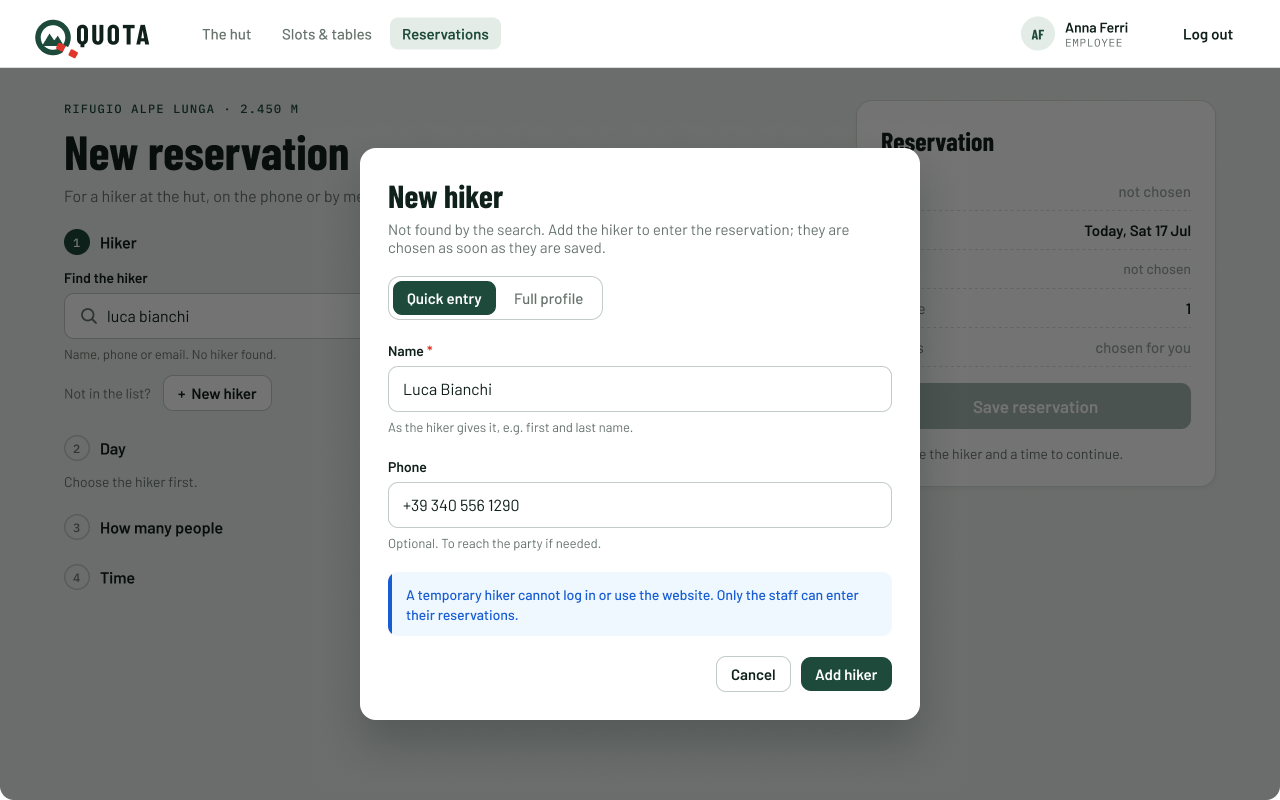
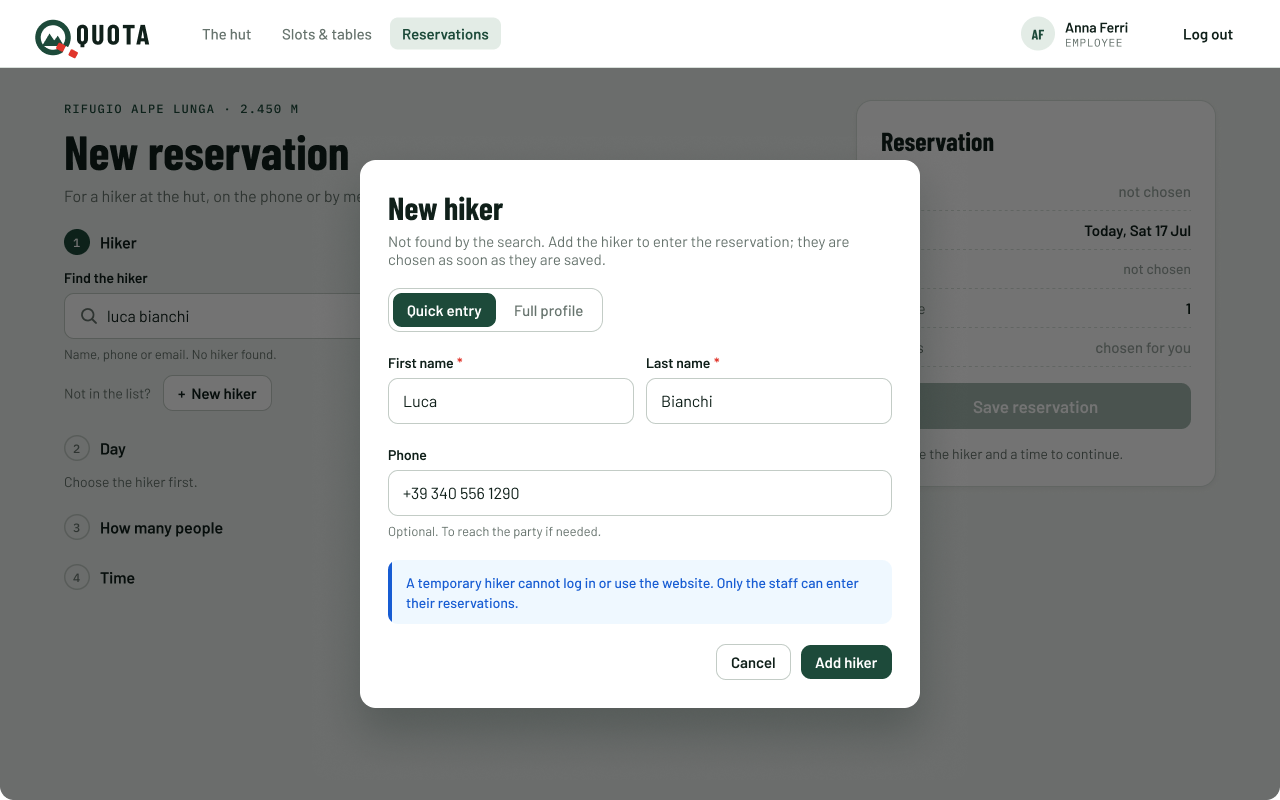
docs: align MH-07 and login mockups with the MH-07 API
- quick entry asks for first and last name, as POST /api/staff/hikers
- first-login password change asks for the current password, as
  POST /api/auth/change-password; add its 422 errors (login 16-17)
- add MH-07 screen 8: the hiker already has a booking for that slot
- temporary hikers are not shown in the search (team decision)

diff --git a/docs/mockups/login/phone.html b/docs/mockups/login/phone.html
@@ -245,7 +245,7 @@ const groups = [
       { n: "M14", title: "Choose a new password", notes: ["Opened from the link in the email. Errors as on the sign-up (M6).", "Saved: back to the login with \"Your password has been changed. Log in with the new one.\""],
         html: passwordPage({ path: "/reset-password", title: "Choose a new password", sub: "For giulia.rossi@example.com.", body: newPw("Save password") }) },
       { n: "M15", title: "Change at the first login", notes: ["Right after logging in with the password told by the staff. No other page opens until it is saved.", "Then as after any login: Book a table."],
-        html: passwordPage({ path: "/change-password", top: "", title: "Choose your password", sub: "Hello Luca. Your account was made by the hut staff: choose your own password to continue.", body: `${newPw("Save and continue")}<div class="alt-line">Not now? <b>Log out</b></div>` }) },
+        html: passwordPage({ path: "/change-password", top: "", title: "Choose your password", sub: "Hello Luca. Your account was made by the hut staff: choose your own password to continue.", body: `${field({ label: "Current password", req: 1, ph: "The password the staff gave you", eye: true })}${newPw("Save and continue")}<div class="alt-line">Not now? <b>Log out</b></div>` }) },
     ] },
 ];
 

diff --git a/docs/mockups/reservation-for-a-hiker/README.md b/docs/mockups/reservation-for-a-hiker/README.md
@@ -8,7 +8,7 @@ A party arrives at the hut some time before the meal and asks for seats, or some
 
 **Figma (source of truth):** page *MH-07 Reservation for a hiker* in [Mountain Hut – Mockups (Team 16)](https://www.figma.com/design/VlTombwHX1DQ7yB2x4U5Yx?node-id=381-1282). Every element is an instance from the *Components* page. Most of them are already used by the [login](../login/README.md), [booking](../booking/README.md) and [slots](../slots/README.md) mockups: navbar, step heading, day, day arrow, people stepper, time slot, text field, alert, button, table chip and the phone bars. This story adds:
 
-- *Hiker option*: a hiker found by the search, or the hiker chosen. Variants: `State` (Default, Selected) and `Size` (Desktop, Phone). On desktop, name, email and phone are on one line. On a phone they are on three lines. Its `Kind=Temporary` variants are not used, see the open question below.
+- *Hiker option*: a hiker found by the search, or the hiker chosen. Variants: `State` (Default, Selected) and `Size` (Desktop, Phone). On desktop, name, email and phone are on one line. On a phone they are on three lines. Its `Kind=Temporary` variants, with a "TEMPORARY · NO LOGIN" badge, are not used: temporary hikers are not shown in the search.
 - *Hiker mode*: the Quick entry / Full profile switch.
 - *Icon / Search*.
 - A `Search icon` option on *Text field*. It is off by default, so the other mockups are unchanged.
@@ -25,7 +25,8 @@ Everything shown comes from the story or from the product owner's clarifications
 |---|---|
 | Story | The procedure has two ways to enter the hiker. The quick way is a name and maybe a phone. The full way is all the details of the hiker. The reservation details come in addition: day, how many people, time. |
 | Clarification | The hiker may already be in the system. Then they are found by name, phone or email. |
-| Clarification | A hiker who is missing is entered with a **quick entry**: a name and an optional phone. This makes a **temporary hiker**, who cannot log in or use the website. |
+| Clarification | A hiker who is missing is entered with a **quick entry**: a name (first and last name) and an optional phone. This makes a **temporary hiker**, who cannot log in or use the website. |
+| Team decision | The search lists **only full hiker accounts**, never temporary hikers, so each quick entry makes a new temporary hiker. The server must leave them out of `GET /api/staff/hikers` (asked in PR #88), so the limit of 20 results counts only real accounts. |
 | Clarification | A hiker who is missing can also be entered with a **full profile**: first name, last name, email and an optional phone. This makes a regular hiker account, which can later use the website. |
 | Clarification | For a full profile the password is generated at random. The employee tells it to the hiker, e.g. aloud. The hiker must change it at the next login, and can always recover it by email. |
 | Clarification | The only time limit for the staff is the start of the time slot: no reservation after it starts. The 2-hour limit of hikers ([#7](https://github.com/SE2-Polito/AY26-27-Mountain-Hut/issues/7)) does not apply. |
@@ -35,7 +36,7 @@ Everything shown comes from the story or from the product owner's clarifications
 
 1. **Find the hiker.** The page opens with an empty search, today's date already chosen and 1 person (screen 1). The search starts as the employee types. It matches name, phone or email among **full hiker accounts only** (screen 2). Each result shows name, email and phone. Picking a result chooses that hiker. The chosen hiker card has a *Change* button to go back to the search.
 2. **New hiker.** The *+ New hiker* button is there from the start: under the search, or next to "Not in the list?" under the results. It opens a dialog with a switch:
-   - **Quick entry** (screen 4): name and optional phone. *Add hiker* creates a temporary hiker.
+   - **Quick entry** (screen 4): first name, last name and optional phone. *Add hiker* creates a temporary hiker.
    - **Full profile** (screen 5): first name, last name, email and optional phone. There is no password field: the password is generated when the reservation is saved.
 
    After *Add hiker* the dialog closes and the new hiker is chosen in step 1.
@@ -60,6 +61,7 @@ The summary on the right (a bar at the bottom on a phone) fills in as the employ
 | 5 | New hiker: full profile (hiker account) | ![New hiker full profile](05-new-hiker-full-profile.png) |
 | 6 | New hiker: errors, and an email already in the system (`409`) | ![New hiker errors](06-new-hiker-errors.png) |
 | 7 | Reservation saved, with the generated password | ![Reservation saved](07-reservation-saved.png) |
+| 8 | The hiker already has a booking at that time (`422`) | ![Already booked for this time](08-already-booked.png) |
 
 ### On a phone
 
@@ -91,7 +93,8 @@ The full profile sheet on a phone has the same fields as desktop screen 5, and i
 
 | Field | Required | Rule | Message under the field |
 |---|---|---|---|
-| Name | yes | not empty | Enter a name. |
+| First name | yes | not empty | Enter the first name. |
+| Last name | yes | not empty | Enter the last name. |
 | Phone | no | digits, spaces and a leading `+` | Helper: "Optional. To reach the party if needed." Error: "Enter a valid phone number." |
 
 ### New hiker: full profile
@@ -129,6 +132,7 @@ The browser checks these rules before sending, and the server checks them again 
 | Full profile note | A password is generated at random. Tell it to the hiker: they must change it at their first login, and can always recover it by email. |
 | Email already used (`409`) | Under Email: "This email belongs to *name*, already in the system." Red alert: "This hiker may already be in the system. Choose *name*, or use another email." Button *Choose name* picks that hiker and closes the dialog. |
 | Reservation saved (`201`) | **Reservation saved.** *Name* now has a hiker account and a table for *N* today at *HH:MM*. The details and the tables follow. For a new full profile, also: "Password for *name*", the password, *Copy*, and "Tell it to the hiker now: it is shown only this once. They must change it at their first login, and can always recover it by email at *email*." Buttons: *+ New reservation*, *Done*. |
+| The hiker already has a booking for that time (`422`, screen 8) | Red alert in the summary, above Save reservation: "*Name* already has a booking at *HH:MM* today. Choose another time." Nothing is saved, every choice is kept. Changing that booking is MH-08. |
 | Seats gone or time started meanwhile (`409`) | As in MH-01: the free seats are reloaded, the choices are kept, and the employee chooses another time or fewer people. |
 | Not logged in (`401`) | The login page (login mockup, screen 4). |
 | A hiker opens the page (`403`) | The "Staff only" page (login mockup, screen 7). |
@@ -144,7 +148,6 @@ These belong to other stories and are added with them:
 
 ## Open questions (not decided by the product owner)
 
-- **Temporary hikers are not found by the search.** The clarification says a hiker "already present in the system" is matched by name, phone or email. It does not say whether temporary hikers count. The mockup lists only full hiker accounts, so each quick entry makes a new temporary hiker, even for someone who came before. If the PO decides otherwise, the *Hiker option* component already has the `Kind=Temporary` variants, with a "TEMPORARY · NO LOGIN" badge, to show them in the results.
 - **The warden** probably has the same page (as for Slots & tables). The mockup shows only an employee.
 
 Sample data (hut, names, emails, phones, dates, tables, password) is invented for the mockup.

diff --git a/docs/mockups/login/README.md b/docs/mockups/login/README.md
@@ -7,7 +7,7 @@ Mockup for the login frontend ([MH-55](https://polito-se2-26-16.youtrack.cloud/i
 | Figma page | What it holds |
 |---|---|
 | **Brand · QUOTA** | Name, logo, palette, typography, motifs and usage rules |
-| **MH-45 Login & sign-up** | The 15 desktop screens and the 15 phone screens below |
+| **MH-45 Login & sign-up** | The 17 desktop screens and the 15 phone screens below |
 | **Components** | Logo, trail blaze, eye icon, button, text field (with the show/hide password toggle), alert, navbars, log out dialog, brand panel, phone browser bar and top bar, and the colour variables |
 
 ## The brand in one paragraph
@@ -33,6 +33,8 @@ The app is called **QUOTA**. In Italian *quota* is altitude (huts are signed "qu
 | 13 | Reset link not valid (expired or already used) | ![Reset link not valid](13-reset-link-not-valid.png) |
 | 14 | Password changed, back on the login | ![Password changed](14-password-changed.png) |
 | 15 | Change the password at the first login (account made by the staff) | ![Change the password at the first login](15-change-password-first-login.png) |
+| 16 | Change the password: the current one is wrong (`422`) | ![Current password wrong](16-change-password-wrong-current.png) |
+| 17 | Change the password: the new one is the same as the current one (`422`) | ![New password same as the current one](17-change-password-same-as-current.png) |
 
 Login and sign-up are split screens: the **brand panel** on the left (hut name and altitude on a contour map), the form on the right.
 
@@ -68,7 +70,7 @@ The same website opened in a phone browser, not a separate app: the React pages 
 | 14 | Choose a new password | ![Choose a new password on a phone](phone/14-choose-new-password.png) |
 | 15 | Change the password at the first login | ![Change the password at the first login on a phone](phone/15-change-password-first-login.png) |
 
-On a phone, Check your email, Reset link not valid and Password changed are the same as on desktop (screens 11, 13, 14) in the phone layout of the login.
+On a phone, Check your email, Reset link not valid, Password changed and the two errors of the password change are the same as on desktop (screens 11, 13, 14, 16, 17) in the phone layout of the login.
 
 ## Behaviour
 
@@ -87,7 +89,8 @@ On a phone, Check your email, Reset link not valid and Password changed are the 
 
   Passwords are still stored only as hashes: nobody, the hut staff included, can read them.
 - **Change the password at the first login** (screen 15). An employee can create a full hiker account for someone at the hut or on the phone (MH-07, [reservation for a hiker mockup](../reservation-for-a-hiker/README.md)). Its password is generated at random and told to the hiker.
-  - When that hiker logs in with it, the login goes to *Choose your password* and no other page opens until a new password is saved.
+  - When that hiker logs in with it, the login goes to *Choose your password* and no other page opens until a new password is saved. The page asks for the **current password** (the one the staff gave) and the new one twice (`POST /api/auth/change-password`).
+  - If the current password is wrong, or the new one is the same as the current one, the server answers `422` (screens 16 and 17).
   - Then the hiker goes on as after any login (*Book a table*, or the page they came from).
   - *Log out* leaves without changing the password, and the next login asks again.
   - The hiker can also skip the generated password and use *Forgot password?* instead.
@@ -138,10 +141,18 @@ All rules except the `409` are checked in the browser before sending, and checke
 
 | Field | Required | Rule | Message under the field |
 |---|---|---|---|
+| Current password | yes, only on screen 15 | the password the staff gave | Enter the current password. |
 | New password | yes | at least 8 characters | Use at least 8 characters. |
 | Repeat password | yes | same as new password | The passwords are different. |
 
-Both fields have the show/hide eye. The rules are checked in the browser before sending, and checked again by the server (`400` if they fail).
+Every field has the show/hide eye. The rules are checked in the browser before sending, and checked again by the server (`400` if they fail).
+
+Two answers of the server on screen 15 (`422`):
+
+| When | What the hiker sees |
+|---|---|
+| The current password is wrong (screen 16) | Under Current password: "The current password is wrong. Use the one the hut staff gave you." The current password is emptied and gets the focus; the new ones are kept. |
+| The new password is the same as the current one (screen 17) | Under New password: "Choose a password different from the current one." The two new fields are emptied; the current one is kept. |
 
 ### Other texts
 
